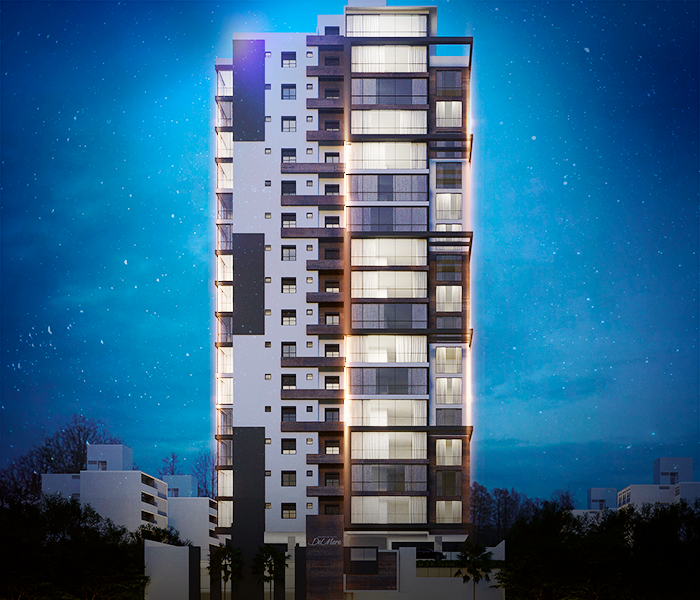
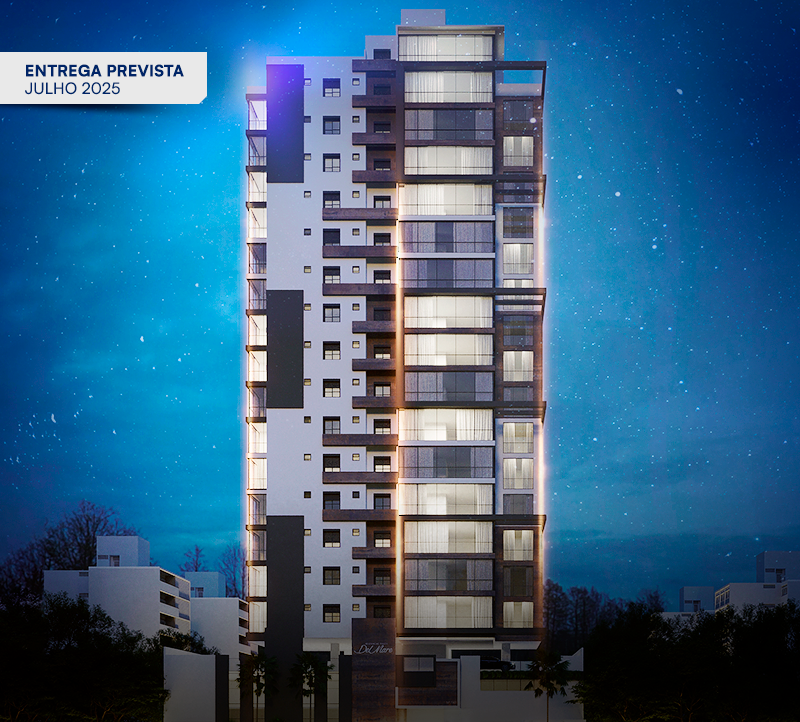
refactor: add minor style changes

diff --git a/src/assets/enterprises.ts b/src/assets/enterprises.ts
@@ -51,7 +51,22 @@ export const enterprises = [
       'zen-lounge',
       'noble-area',
     ],
-    planText: 'Torre única | 8 andares | 17 aptos. | 3 por andar\n7 Aptos. tipo 1 com 126m² privativos | 3 suítes\n10 Aptos. tipo 2 e 3 com 108m² privativos | 2 suítes e 1 dormitório\n1 cobertura plana com 168m²\n1 cobertura plana com 173m²\nSacada com churrasqueira a carvão\nDuas vagas de garagem\nOpção para a terceira vaga de garagem\nAmbientes integrados nos apartamentos\nInfraestrutura para sistema de segurança\nInfraestrutura para refrigeração em todos os cômodos\nPorcelanato na cozinha, sala e áreas molhadas',
+    planText: `
+      <ul style="list-style-position: inside;">
+        <li>Torre única | 8 andares | 17 aptos. | 3 por andar</li>
+        <li>7 Aptos. tipo 1 com 126m² privativos | 3 suítes</li>
+        <li>10 Aptos. tipo 2 e 3 com 108m² privativos | 2 suítes e 1 dormitório</li>
+        <li>1 cobertura plana com 168m²</li>
+        <li>1 cobertura plana com 173m²</li>
+        <li>Sacada com churrasqueira a carvão</li>
+        <li>Duas vagas de garagem</li>
+        <li>Opção para a terceira vaga de garagem</li>
+        <li>Ambientes integrados nos apartamentos</li>
+        <li>Infraestrutura para sistema de segurança</li>
+        <li>Infraestrutura para refrigeração em todos os cômodos</li>
+        <li>Porcelanato na cozinha, sala e áreas molhadas</li>
+      </ul>
+    `,
     plans: [
       {
         label: 'Apartamento Tipo 1',
@@ -68,9 +83,9 @@ export const enterprises = [
     ],
     detailedStatus: {
       infrastructure: 1,
-      masonry: 0.8,
-      installations: 1,
-      coating: 0.75,
+      masonry: 0.1,
+      installations: 0,
+      coating: 0,
     }
   },
   {
@@ -94,7 +109,22 @@ export const enterprises = [
     pageTitle: 'INSPIRADO NA PRAÇA DEL MARE, EM RODI GARGANICO:',
     pageText: 'Rodi Garganico é um pequeno vilarejo italiano cercado de paisagens exuberantes da praia e da natureza. E foi inspirado em paisagens de tirar o fôlego, que o Piazza Del Mare foi projetado.\n\nO mar de Balneário Piçarras foi emoldurado em uma vista única, que pode ser apreciada de dentro do seu próprio apartamento.\n\nE até mesmo o Zico, nosso eterno camisa 10, resolveu descer para Santa Catarina e fazer deste belo empreendimento, a sua próxima jogada.',
     apartmentsOptions: 'Apartamentos com opções de 3 e 2 suítes',
-    planText: 'Torre única / 19 andares / 45 apartamentos / 3 por andar\n15 aptos tipo 1 com 123,61m² privativos / 3 suítes\n15 aptos tipo 3 com 100,14 m² / 1 suíte e 2 demi-suítes\n15 aptos tipo 3 com 100,52 m² privativos / 1 suíte e 2 demi-suítes\nEspaço gourmet no apartamento\nSacada com churrasqueira a carvão\nAmbientes integrados nos apartamentos\nOpção de segunda vaga de garagem\nInfraestrutura para sistema de segurança\n2 elevadores\nEntrega prevista para: Julho/2025',
+    planText: `
+      <ul style="list-style-position: inside;">
+        <li>Torre única / 19 andares / 45 apartamentos / 3 por andar</li>
+        <li>15 aptos tipo 1 com 123,61m² privativos / 3 suítes</li>
+        <li>15 aptos tipo 3 com 100,14 m² / 1 suíte e 2 demi-suítes</li>
+        <li>15 aptos tipo 3 com 100,52 m² privativos / 1 suíte e 2 demi-suítes</li>
+        <li>Espaço gourmet no apartamento</li>
+        <li>Sacada com churrasqueira a carvão</li>
+        <li>Ambientes integrados nos apartamentos</li>  
+        <li>Opção de segunda vaga de garagem</li>
+        <li>Infraestrutura para sistema de segurança</li>
+        <li>2 elevadores</li>
+      </ul>
+      <br/>
+      <strong style="color: #1A47BC; text-decoration: underline;">ENTREGA PREVISTA JULHO 2025</strong>
+    `,
     photos: [
       '/images/piazza-del-mare/incorporadora-campos-piazza-del-mare-academia.jpg',
       '/images/piazza-del-mare/incorporadora-campos-piazza-del-mare-apartamento-interno-1.jpg',

diff --git a/src/components/enterprisesPage/EnterpriseCard.tsx b/src/components/enterprisesPage/EnterpriseCard.tsx
@@ -65,36 +65,36 @@ const sxInfos = {
 
 export const EnterpriseCard = ({ enterprise }) => {
   return (
-    <Box sx={{ height: 'fit-content', width: '100%', boxShadow: 20 }}>
-      <Stack direction={{ xs: 'column', md: 'row' }} sx={{ height: '100%' }}>                  
-        <Box sx={sxImage}>
-          <Image
-            src={enterprise.image}
-            alt={enterprise.name}
-            objectFit='cover'
-            width="100%"
-            height="100%"
-            layout="fill"
-            objectPosition='left bottom'
-          />
-        </Box>
-        <Box sx={sxInfos}>
-          <Typography {...enterpriseNameProps}>{enterprise.name.toUpperCase()}</Typography>
-          <Typography fontSize={16} fontWeight={500}>{enterprise.district} | {enterprise.city}</Typography>
-          <Typography fontSize={14}>
-            {getEnterpriseDetailsString(enterprise.slug)}
-          </Typography>
-          <Typography fontSize={14} fontWeight={400} sx={{ mt: '1rem', whiteSpace: 'pre-wrap' }} >{enterprise.description}</Typography>
-          <Link href={`/empreendimentos/${enterprise.slug}`} passHref>
-            <Box component='a' sx={{ mt: { xs: '1rem', md: 'auto' }, width: 'fit-content' }}>
-              <Typography fontSize={15} fontWeight={700}  sx={{ width: 'fit-content', color: '#1a47bc', borderBottom: '1px solid #1A47BC', }} >SAIBA MAIS</Typography>
+    <Link href={`/empreendimentos/${enterprise.slug}`} passHref>
+      <a>
+        <Box sx={{ height: 'fit-content', width: '100%', boxShadow: 20 }}>
+          <Stack direction={{ xs: 'column', md: 'row' }} sx={{ height: '100%' }}>                  
+            <Box sx={sxImage}>
+              <Image
+                src={enterprise.image}
+                alt={enterprise.name}
+                objectFit='cover'
+                width="100%"
+                height="100%"
+                layout="fill"
+                objectPosition='left bottom'
+              />
             </Box>
-          </Link>
-          <Box bgcolor='primary.main' sx={sxStatus}>
-            <Typography fontSize={13} letterSpacing={3}>{enterprise.status.toUpperCase()}</Typography>
-          </Box>
+            <Box sx={sxInfos}>
+              <Typography {...enterpriseNameProps}>{enterprise.name.toUpperCase()}</Typography>
+              <Typography fontSize={16} fontWeight={500}>{enterprise.district} | {enterprise.city}</Typography>
+              <Typography fontSize={14}>
+                {getEnterpriseDetailsString(enterprise.slug)}
+              </Typography>
+              <Typography fontSize={14} fontWeight={400} sx={{ mt: '1rem', whiteSpace: 'pre-wrap' }} >{enterprise.description}</Typography>
+              <Typography fontSize={15} fontWeight={700}  sx={{ mt: { xs: '1rem', md: 'auto' }, width: 'fit-content', color: '#1a47bc', borderBottom: '1px solid #1A47BC', }} >SAIBA MAIS</Typography>
+              <Box bgcolor='primary.main' sx={sxStatus}>
+                <Typography fontSize={13} letterSpacing={3}>{enterprise.status.toUpperCase()}</Typography>
+              </Box>
+            </Box>
+          </Stack>
         </Box>
-      </Stack>
-    </Box>
+      </a>
+    </Link>
   )
 }

diff --git a/src/components/commons/Header/TopBar.tsx b/src/components/commons/Header/TopBar.tsx
@@ -4,7 +4,7 @@ import LinkedInIcon from '@mui/icons-material/LinkedIn';
 import InstagramIcon from '@mui/icons-material/Instagram';
 import FacebookIcon from '@mui/icons-material/Facebook';
 import WhatsAppIcon from '@mui/icons-material/WhatsApp';
-import { FollowUs } from '../FollowUs';
+import { FollowUs, FollowUsIcons } from '../FollowUs';
 import useMediaQuery from '@mui/material/useMediaQuery';
 import { facebookUrl, instagramUrl, linkedinUrl, whatsappUrl } from '../../../constants/socialLinks';
 
@@ -13,21 +13,17 @@ export const TopBar = () => {
   const sizeSm = useMediaQuery(theme.breakpoints.up('sm'));
 
   return (
-    <Box bgcolor='#0d235e' sx={{ color: 'white', py: 1 }}>
+    <Box bgcolor='#0d235e' sx={{ color: 'white', py: .75 }}>
       <Container>
         <Stack direction='row' justifyContent='space-between' alignItems='center' spacing={2} >
           {sizeSm
             ? <FollowUs /> 
-            : <Stack direction='row' spacing={1} alignItems='center'>
-                <a href={linkedinUrl} target='_blank' rel="noreferrer" ><LinkedInIcon /></a>
-                <a href={instagramUrl} target='_blank' rel="noreferrer" ><InstagramIcon /></a>
-                <a href={facebookUrl} target='_blank' rel="noreferrer" ><FacebookIcon /></a>
-              </Stack>           
+            : <FollowUsIcons />
           }
           <a href={whatsappUrl} target='_blank' rel="noreferrer" >
-            <Stack direction='row' alignItems='center' spacing={2}> 
-              <WhatsAppIcon />
-              <Typography>47 9 99138-2244</Typography>
+            <Stack direction='row' alignItems='center' spacing={1}> 
+              <WhatsAppIcon sx={{ fontSize: 18 }} />
+              <Typography fontSize={12}>47 9 99138-2244</Typography>
             </Stack>
           </a>
         </Stack>

diff --git a/src/components/commons/FollowUs.tsx b/src/components/commons/FollowUs.tsx
@@ -5,15 +5,22 @@ import InstagramIcon from '@mui/icons-material/Instagram';
 import FacebookIcon from '@mui/icons-material/Facebook';
 import { facebookUrl, instagramUrl, linkedinUrl } from '../../constants/socialLinks';
 
+export const FollowUsIcons = () => {
+  return (
+    <Stack direction='row' spacing={1} alignItems='center'>
+      <a href={linkedinUrl} target='_blank' rel="noreferrer" style={{ display: 'flex' }} ><LinkedInIcon sx={{ fontSize: 18 }} /></a>
+      <a href={instagramUrl} target='_blank' rel="noreferrer" style={{ display: 'flex' }} ><InstagramIcon sx={{ fontSize: 18 }} /></a>
+      <a href={facebookUrl} target='_blank' rel="noreferrer" style={{ display: 'flex' }} ><FacebookIcon sx={{ fontSize: 18 }} /></a>
+    </Stack>  
+  )
+}
+
 export const FollowUs = ({ sx }: { sx?: SxProps  }) => {
   return (
-    <Stack direction='row' alignItems='center' spacing={2} sx={sx}>              
-      <Typography>SIGA NAS REDES SOCIAIS</Typography>
-      <Stack direction='row' spacing={1} alignItems='center'>
-        <a href={linkedinUrl} target='_blank' rel="noreferrer" ><LinkedInIcon /></a>
-        <a href={instagramUrl} target='_blank' rel="noreferrer" ><InstagramIcon /></a>
-        <a href={facebookUrl} target='_blank' rel="noreferrer" ><FacebookIcon /></a>
-      </Stack>
+    <Stack direction='row' alignItems='center' spacing={1} sx={sx}>              
+      <Typography fontSize={12}>SIGA NAS REDES SOCIAIS</Typography>
+      <FollowUsIcons />
     </Stack>
   )
 }
+

diff --git a/src/components/enterprisesInternalPage/PlanOptionsSection.tsx b/src/components/enterprisesInternalPage/PlanOptionsSection.tsx
@@ -37,7 +37,11 @@ export const PlanOptionsSection = ({ enterpriseData }) => {
             <SectionTitle textAlign='left' marginBottom={false}>OPÇÕES DE PLANTA</SectionTitle>
           </Box>
           <Box gridArea='b' alignSelf='flex-start' justifySelf={{ xs: 'center', md: 'flex-start' }}  >
-            <Typography sx={{ whiteSpace: 'pre-wrap' }}>{enterpriseData.planText}</Typography>
+            <Box
+              component='p'
+              dangerouslySetInnerHTML={{ __html: enterpriseData.planText }}
+              sx={{ lineHeight: 1.75 }}
+            />
           </Box>
           <Box gridArea='c' justifySelf='center' sx={sxPlanSlider} >
             <Box bgcolor='white' sx={{ height: '100%', width: '100%', boxShadow: 20, p: 4 }}>

diff --git a/src/components/homePage/heroSlider/HeroSlider.tsx b/src/components/homePage/heroSlider/HeroSlider.tsx
@@ -60,7 +60,7 @@ const slides = [
               objectFit='contain'
             />
           </Box>
-          <Typography fontSize={21} letterSpacing={4} textAlign='center' sx={{ color: 'white', mt: 'auto', mb: 2 }} >LANÇAMENTO EM PIÇARRAS</Typography>
+          <Typography fontSize={21} letterSpacing={4} textAlign='center' sx={{ color: 'white', mt: 'auto', mb: 2 }} >PRÉ LANÇAMENTO EM PIÇARRAS</Typography>
           <Link href='/empreendimentos/piazza-del-mare' passHref >
             <a>
               <OutlinedWhiteButton>SAIBA MAIS</OutlinedWhiteButton>

diff --git a/src/components/enterprisesInternalPage/SummarySection.tsx b/src/components/enterprisesInternalPage/SummarySection.tsx
@@ -35,7 +35,7 @@ export const SummarySection = ({ enterpriseData }) => {
       <Container sx={{ py: 10 }}>
         <Box sx={sxGrid} >
           <Box sx={{ gridArea: 'a' }}>
-            <Box sx={{ position: 'relative', height: { xs: '20rem', md: '100%' }, width: '100%' }}>
+            <Box sx={{ position: 'relative', height: { xs: 'unset', md: '100%' }, width: '100%', aspectRatio: { xs: '1 / 1', md: 'unset' } }}>
               <Image
                 src={enterpriseData.image}
                 alt={enterpriseData.name}
